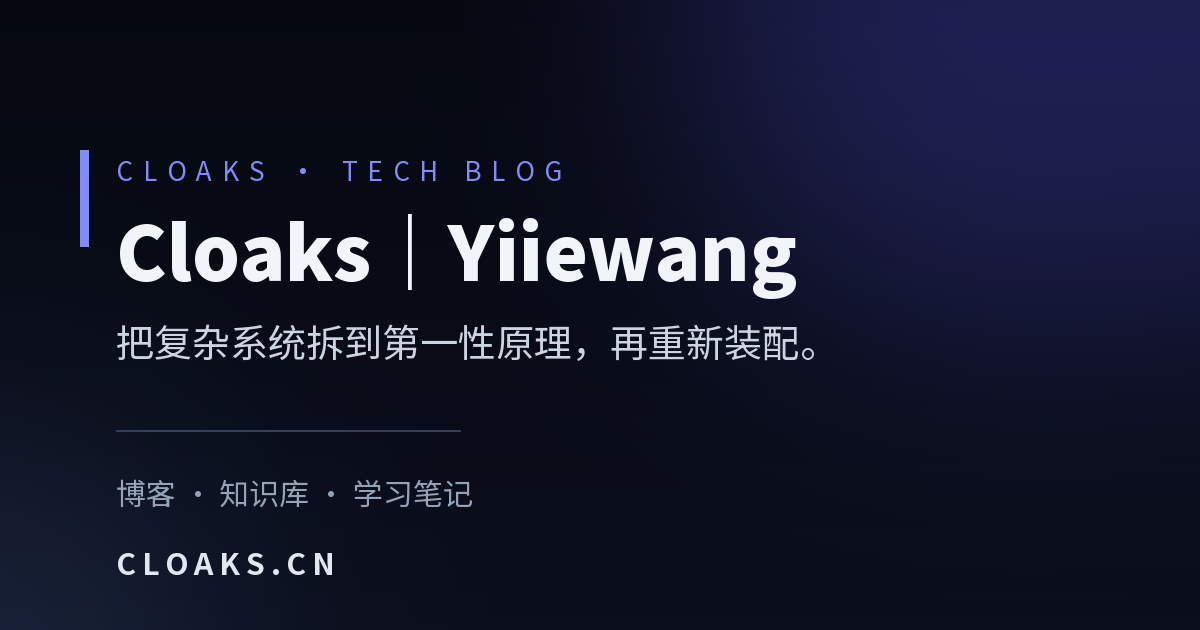
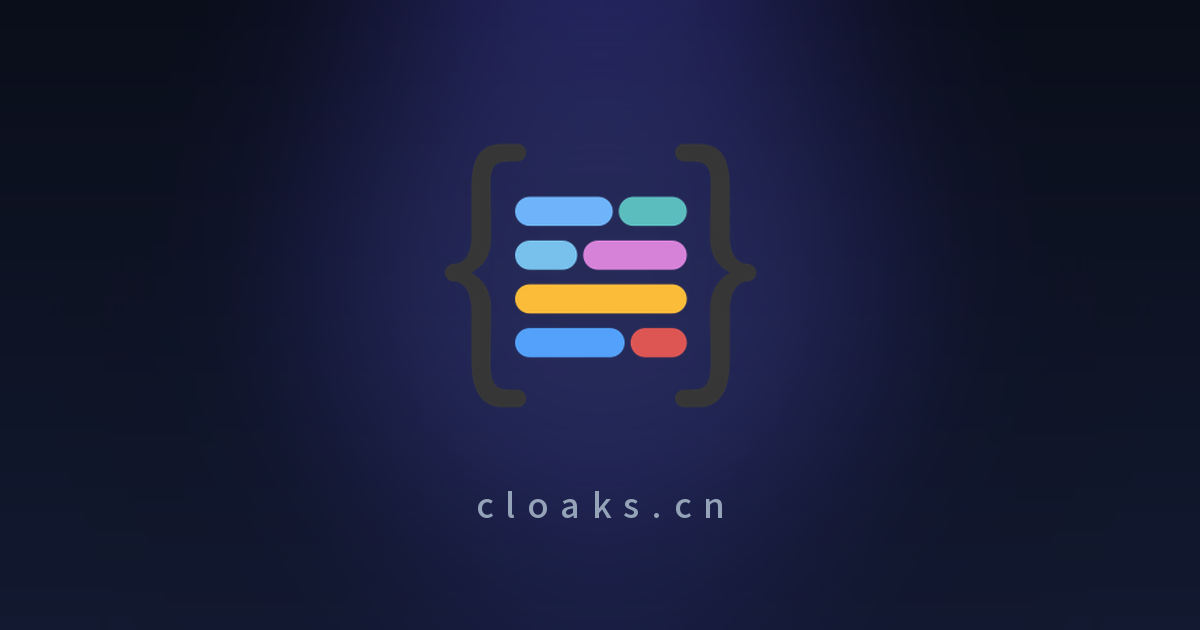
docs: 《爱的艺术》第二章第一节读书笔记 + og-card v3 头像版——把孤独读成生存问题，分享卡只留一个域名

diff --git a/scripts/og_card.py b/scripts/og_card.py
@@ -1,6 +1,9 @@
 #!/usr/bin/env python3
 """生成默认分享卡 docs/assets/images/og-card.png（1200×630）。
 
+v3 头像版：站点 favicon（docs/assets/favicon.ico，260px RGBA）居中放大，
+身后一圈淡 indigo 光晕，底部只留 cloaks.cn 一行字。
+
 og:image / twitter:image / BlogPosting JSON-LD 的 image 都指向它。
 分享到微信/Twitter/Slack 及 Google Discover 抓取时展示。
 
@@ -21,15 +24,17 @@ from PIL import Image, ImageDraw, ImageFilter, ImageFont
 W, H = 1200, 630
 ROOT = Path(__file__).resolve().parent.parent
 OUT = ROOT / "docs/assets/images/og-card.png"
+MARK = ROOT / "docs/assets/favicon.ico"
 FONT = "/usr/share/fonts/truetype/NotoSansSC.ttf"
 
 # 站点设计令牌（indigo primary / slate dark scheme，见 zensical.toml 与 site.css）
-BG_TOP = (13, 17, 33)        # slate-950
-BG_BOTTOM = (22, 30, 58)     # 深蓝渐变
-INDIGO_LIGHT = (129, 140, 248)   # indigo-400（eyebrow / 强调）
-WHITE = (241, 245, 249)
-GRAY = (203, 213, 225)       # slate-300（tagline）
-GRAY_DIM = (148, 163, 184)   # slate-400（域名）
+BG_TOP = (10, 14, 26)        # slate-950 压暗一档
+BG_BOTTOM = (18, 25, 48)     # 深蓝渐变
+INDIGO = (129, 140, 248)     # indigo-400（光晕内层）
+INDIGO_DEEP = (79, 70, 229)  # indigo-600（光晕主体）
+GRAY = (148, 163, 184)       # slate-400（域名）
+
+MARK_SIZE = 320  # 260px 源放大到 320，LANCZOS 轻度上采样
 
 
 def font(size: int, weight: str = "Regular") -> ImageFont.FreeTypeFont:
@@ -42,18 +47,23 @@ def font(size: int, weight: str = "Regular") -> ImageFont.FreeTypeFont:
 
 
 def spaced_text(draw: ImageDraw.ImageDraw, xy: tuple[int, int], text: str,
-                f: ImageFont.FreeTypeFont, fill, tracking: int = 8):
-    """带字距的文本（用于 eyebrow 小标）。"""
+                f: ImageFont.FreeTypeFont, fill, tracking: int = 8) -> None:
+    """带字距的文本（左上角定位）。"""
     x, y = xy
     for ch in text:
         draw.text((x, y), ch, font=f, fill=fill)
         x += draw.textlength(ch, font=f) + tracking
 
 
-def main() -> None:
-    img = Image.new("RGB", (W, H), BG_TOP)
+def spaced_width(draw: ImageDraw.ImageDraw, text: str,
+                 f: ImageFont.FreeTypeFont, tracking: int = 8) -> float:
+    return (sum(draw.textlength(ch, font=f) for ch in text)
+            + tracking * (len(text) - 1))
 
-    # 垂直渐变底
+
+def main() -> None:
+    # 1. 垂直渐变底
+    img = Image.new("RGB", (W, H), BG_TOP)
     grad = Image.new("RGB", (1, H))
     for y in range(H):
         t = y / H
@@ -61,33 +71,32 @@ def main() -> None:
             round(a + (b - a) * t) for a, b in zip(BG_TOP, BG_BOTTOM)))
     img.paste(grad.resize((W, H)))
 
-    # 右上角 indigo 光晕（模糊椭圆）
-    glow = Image.new("RGB", (W, H), (0, 0, 0))
+    # 2. logo 身后一圈淡 indigo 光晕（透明层合成，不压暗四角）
+    glow = Image.new("RGBA", (W, H), (0, 0, 0, 0))
     gd = ImageDraw.Draw(glow)
-    gd.ellipse((W - 520, -260, W + 160, 320), fill=(49, 46, 129))
-    gd.ellipse((-200, H - 200, 220, H + 240), fill=(30, 41, 59))
-    glow = glow.filter(ImageFilter.GaussianBlur(120))
-    img = Image.blend(img, Image.blend(img, glow, 0.55), 0.9)
+    gd.ellipse((250, -75, 950, 625), fill=INDIGO_DEEP + (100,))
+    gd.ellipse((430, 105, 770, 445), fill=INDIGO + (40,))
+    glow = glow.filter(ImageFilter.GaussianBlur(130))
+    img = Image.alpha_composite(img.convert("RGBA"), glow).convert("RGB")
+
+    # 3. favicon 头像式居中
+    mark = Image.open(MARK).convert("RGBA")
+    mark = mark.resize((MARK_SIZE, MARK_SIZE), Image.Resampling.LANCZOS)
+    mx, my = (W - MARK_SIZE) // 2, 115
+    img.paste(mark, (mx, my), mark)
 
     draw = ImageDraw.Draw(img)
 
-    # 左侧强调竖条
-    draw.rectangle((80, 150, 88, 246), fill=INDIGO_LIGHT)
-
-    # 文本层
-    spaced_text(draw, (116, 150), "CLOAKS · TECH BLOG", font(26), INDIGO_LIGHT, 10)
-    draw.text((116, 192), "Cloaks｜Yiiewang", font=font(76, "Black"), fill=WHITE)
-    draw.text((116, 312), "把复杂系统拆到第一性原理，再重新装配。",
-              font=font(38), fill=GRAY)
-
-    # 底部：域名 + 栏目
-    draw.line((116, 430, 460, 430), fill=(51, 65, 85), width=2)
-    draw.text((116, 470), "博客 · 知识库 · 学习笔记", font=font(30), fill=GRAY_DIM)
-    spaced_text(draw, (116, 540), "CLOAKS.CN", font(30, "Bold"), (226, 232, 240), 6)
+    # 4. 域名（唯一文案）
+    f_dom = font(34, "Medium")
+    dom = "cloaks.cn"
+    spaced_text(draw, ((W - spaced_width(draw, dom, f_dom, 12)) / 2, 478),
+                dom, f_dom, GRAY, 12)
 
     OUT.parent.mkdir(parents=True, exist_ok=True)
     img.save(OUT, "PNG", optimize=True)
     print(f">>> {OUT.relative_to(ROOT)}（{OUT.stat().st_size // 1024} KB, {W}×{H}）")
+    print(f"    favicon {mark.size[0]}px @ ({mx},{my})，文案仅 cloaks.cn")
 
 
 if __name__ == "__main__":

diff --git a/docs/blog/posts/2026/10/19.md b/docs/blog/posts/2026/10/19.md
@@ -1,0 +1,99 @@
+---
+date: 2026-10-19
+authors:
+  - cloaks
+categories:
+  - 读书与思考
+tags:
+  - 弗洛姆
+  - 爱的艺术
+  - 孤独
+  - 存在主义
+  - 社会批判
+comments: true
+description: 重读《爱的艺术》第二章第一节：弗洛姆把孤独从心情问题提升到生存问题，拆穿了被偷换的"平等"和趋同化伪装的自主，最终在共生与成熟之爱之间划出分界线。
+---
+
+# 把《爱的艺术》第二章第一节读成一张孤独突围路线图
+
+第一次读《爱的艺术》，记住了"爱是能力不是对象"就放下了。重读第二章才发现，弗洛姆根本不是在讲爱情——他在讲 **生存**。爱只是他对人类生存困境给出的回答。
+
+<!-- more -->
+
+## 人的根本困境：分离焦虑
+
+弗洛姆的起点很狠：人之所以痛苦，不是因为缺爱，是因为 **意识到自己孤独**。
+
+动物不会焦虑，因为它们不意识到自己与自然分离。人会。人一旦有了自我意识，就发现自己被抛出了自然、与他人之间隔着一道不可逾越的墙。这个意识本身就是痛苦的源头——你不是偶尔觉得孤独，你是 **结构性地孤独**。
+
+!!! quote "弗洛姆原话"
+    要求实现人与人的结合是人内心最强烈的追求。这是人类的最基本的要求，是一股把人类、部落、家庭和社会集合在一起的力量。没有实现这一要求就意味着要疯狂或者毁灭——毁灭自己或毁灭他人。没有爱，人类一天也不可能生存。
+
+注意这个词：毁灭。弗洛姆没有说"不快乐"或"不满足"，他说的是毁灭。孤独不是心情问题，是生存问题。解决不了孤独的人，要么疯掉，要么毁掉自己或别人。
+
+这不是夸张。想想那些完全丧失连接的人——抑郁、成瘾、暴力，本质上都是孤独的变体。
+
+## 被偷换的平等
+
+人对分离的恐惧太深了，所以人类花了漫长的时间寻找出路。弗洛姆梳理了几条路线，其中最隐蔽的一条叫 **平等**。
+
+平等本来是个好东西——每个人作为独特个体被平等对待，差异被尊重。但工业社会把这个词偷换了：从"尊重差异的平等"变成了"消灭差异的平等"。
+
+流水线需要标准化的零件。消费社会需要标准化的消费者。于是"平等"变成了"一样"——谁也不特殊，谁也不突出，谁也不冒头。
+
+这才是弗洛姆真正刺痛人的地方：他不是说社会不好，他是说 **社会用平等的名义消灭了你的独特性**，而你还以为这是进步。
+
+## 趋同化陷阱
+
+被偷换的平等往下走一步，就是趋同化。
+
+社会化需要步调一致——上学、上班、结婚、买房、生子，人生路径被框死。你以为自己在做选择，其实你只是在既有轨道上跑。消费社会告诉你"你有选择"，但选择的是 A 牌还是 B 牌的牙膏，不是要不要刷牙。
+
+这种 **选择幻觉** 让人误以为自己是自主的、独立的。但自主的前提是知道自己要什么——趋同化恰恰消灭了这个"知道"。你买的、穿的、看的、想的，大多是周围人在买、在穿、在看、在想的东西。
+
+趋同化最隐蔽的地方在于：它不靠强制，靠 **恐惧**。害怕被孤立，害怕不一样，害怕"我是不是哪里不对劲"。社会不需要惩罚你，你自己就会惩罚自己。
+
+!!! quote "弗洛姆原话"
+    一个被围困在这么一个罗网之中的人如何才能不忘记他是一个人，只存在一次的人，只有一次生存的机会，能经历希望、失望、担心和恐惧的人，渴望爱情和受到虚无和孤独威胁的人呢？
+
+弗洛姆这段话是整节最沉重的。"只存在一次的人"——不是泛泛的孤独，是一种 **存在性的紧迫**：你不是被某个具体的东西困住，是被整个生存方式困住。工作、消费、娱乐、社交，每个环节都在温柔地消解你的独特性，让你变成一个功能节点。
+
+而且弗洛姆不提供廉价解药。他没有说"只要意识到这一点就自由了"。意识到的痛苦恰恰在于：你知道自己在网里，但你还是得活在网里。
+
+## 结合的两种形式
+
+弗洛姆把"结合"分成了两类。这是整节的枢纽。
+
+不成熟的结合——共生有机体：两个人变成一个，但代价是其中一个取消了自己。要么施虐方吞掉对方（控制、支配），要么受虐方交出自己（臣服、依附）。看起来是"合一"，实际是一个人对另一个人的消化。婴儿和母亲就是这种关系的原型——生物学意义上的共生。
+
+成熟的结合——爱情：两个人在保持各自完整的前提下合一。不是减法（1+1=1），是某种意义上的乘法（1+1>2），但每个 1 还是 1。
+
+这个区分为什么重要？因为 **共生关系也会让人感觉不孤独了**，而且往往比成熟的爱更强烈、更让人上瘾。一个人完全交出自己，融进另一个人或群体里，那种"我终于属于某处"的踏实感是非常真实的。
+
+弗洛姆的危险问题就在这里：如果只看"不孤独"这个结果，共生和成熟的爱看起来一样。社会里大量被称为"爱"的东西——依赖型的恋爱、对权威的服从、对集体的狂热归属——其实是共生。它们解决了孤独，但解决的方式是 **消灭自我**。
+
+所以弗洛姆坚持：不能把所有结合都叫爱情。
+
+!!! quote "弗洛姆原话"
+    如果我们把人与人的结合称为"爱情"的话，我们就会遇到一个严重的问题。可以通过不同的方式达到结合——这些方式之间的区别同各种爱情形式的共同点几乎一样的重要。
+
+否则这个词就失去了诊断力，变成一个什么都装得下的筐。理解了什么是吞没，才知道什么是拥抱。
+
+## 小结
+
+第二章第一节读下来，弗洛姆的逻辑链很清晰：
+
+- 人有自我意识 → 意识到自己孤独 → 这是生存级别的痛苦
+- 人类试图解决孤独 → 其中一条路是被偷换的平等 + 趋同化 → 看起来解决了，实际消灭了自我
+- 另一条路是结合 → 但结合有两种 → 共生（消灭自我）vs 成熟的爱（保持自我）
+- 只有后者才是弗洛姆认定的"爱情"
+
+爱不是浪漫问题，是人怎么活得像个人的问题。不是"找到对的人就能幸福"，是"你敢不敢在保持完整的前提下与他人合一"。
+
+这个问题没有一劳永逸的答案。它是一个需要每天重新回答的问题。
+
+关联阅读：[爱的艺术——第一章读书笔记](../../2025/03/3.md)
+
+---
+
+*最后更新：2026-10-19*
